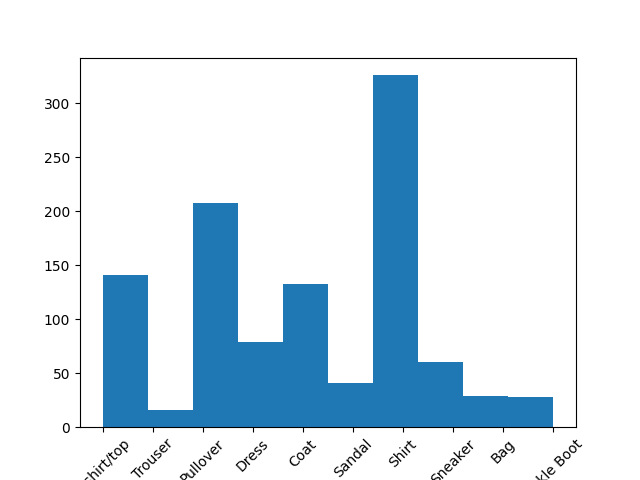
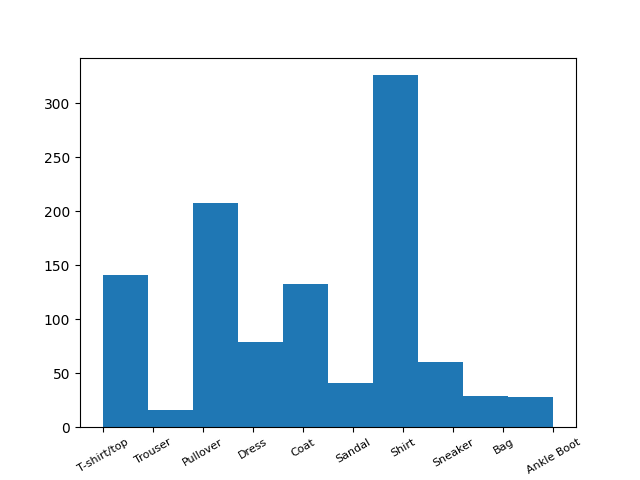
DL

diff --git a/predictor.py b/predictor.py
@@ -42,7 +42,7 @@ if __name__ == '__main__':
                             'Shirt',
                             'Sneaker',
                             'Bag',
-                            'Ankle Boot'], rotation=45
+                            'Ankle Boot'], rotation=30, fontsize=8
 )
     fig.savefig('distribution_errors.png')
     plt.show()
